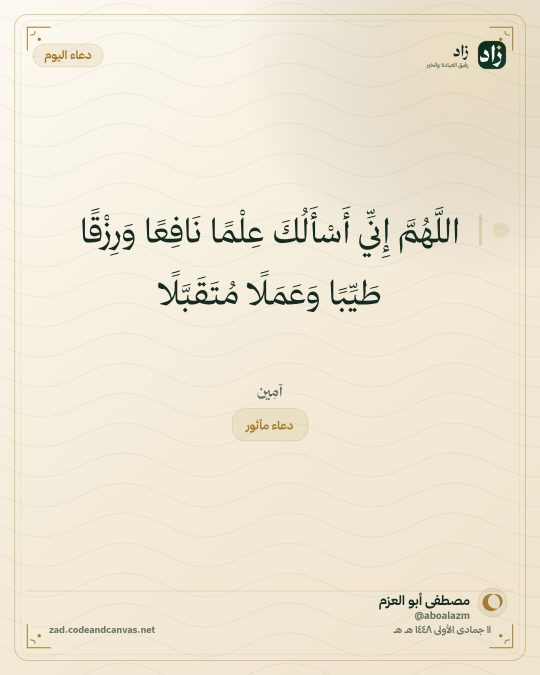
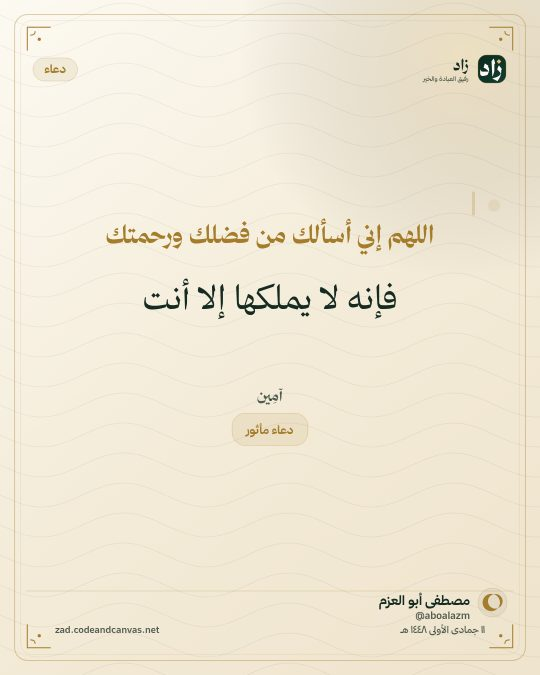
fix(share-studio): إزالة تراكب الشعار/الزخارف في البطاقات + أمثلة مُحدَّثة
- الترويسة نزلت تحت زخرفة الزاوية (كان اللوجو والـchip بيتقطعوا بالقوس الذهبي).
- التاريخ الهجري: منع تكرار «هـ» (Intl بيرجّعها أصلاً).
- الرابط/التاريخ بعيدين عن زخارف الزاوية السفلية.
- علامة الاقتباس فوق العنوان بدل ما تتراكب مع النص المتمركز.
- صندوق الإحصائية الواحدة محدود العرض، وحماية من undefined.
- اللوحة الورقية أوضح (soft .62 → .74).
- إعادة توليد أمثلة tools/share-cards الخمسة.

diff --git a/js/ui/share-studio.js b/js/ui/share-studio.js
@@ -61,7 +61,7 @@
       soft: 'rgba(244,247,255,.68)', accent: '#e3c37c', accent2: '#8fb7e8',
       line: 'rgba(227,195,124,.38)', chip: 'rgba(143,183,232,.13)', glow: 'rgba(80,130,220,.24)', dark: true },
     ivory: { label: 'ورقي', bg: ['#fdfaf2', '#f4ecd9', '#efe4cd'], ink: '#152a21',
-      soft: 'rgba(21,42,33,.62)', accent: '#a47c2a', accent2: '#2f6b52',
+      soft: 'rgba(21,42,33,.74)', accent: '#a47c2a', accent2: '#2f6b52',
       line: 'rgba(164,124,42,.35)', chip: 'rgba(164,124,42,.10)', glow: 'rgba(201,161,74,.20)', dark: false },
     rose: { label: 'وردي', bg: ['#2c0d1e', '#5b1f3c', '#240a18'], ink: '#fff3f7',
       soft: 'rgba(255,243,247,.70)', accent: '#f2c6a0', accent2: '#e79ac2',
@@ -551,7 +551,7 @@
     ctx.font = F('display', size * 0.56, 700);
     ctx.fillText(BRAND, right, y + size * 0.55);
     ctx.fillStyle = P.soft;
-    ctx.font = F('sans', size * 0.20, 500);
+    ctx.font = F('sans', size * 0.22, 500);
     ctx.fillText(TAGLINE, right, y + size * 0.92);
     ctx.restore();
   }
@@ -607,9 +607,11 @@
 
   function hijriToday() {
     try {
-      return new Intl.DateTimeFormat('ar-SA-u-ca-islamic-umalqura', {
+      var s = new Intl.DateTimeFormat('ar-SA-u-ca-islamic-umalqura', {
         day: 'numeric', month: 'long', year: 'numeric'
-      }).format(new Date()) + ' هـ';
+      }).format(new Date());
+      /* بعض إصدارات ICU بتضيف «هـ» بنفسها — منع التكرار */
+      return /ه(\u0640)?\s*$/.test(s) ? s : s + ' هـ';
     } catch (e) { return ''; }
   }
 
@@ -663,8 +665,8 @@
       frame(ctx, W, H, pad, P, u);
     }
 
-    /* ── الترويسة ── */
-    var headY = pad + Math.round(30 * u);
+    /* ── الترويسة ── (تبدأ تحت زخرفة الزاوية 46u حتى لا تتراكب معها) */
+    var headY = pad + Math.round(58 * u);
     var headSize = Math.round(56 * u);
     if (p.showLogo) {
       drawLockup(ctx, W - pad - Math.round(16 * u) - headSize, headY, headSize, P);
@@ -716,7 +718,7 @@
     ctx.font = F('sans', Math.round(19 * u), 500);
     ctx.fillStyle = P.soft;
     ctx.direction = 'ltr'; ctx.textAlign = 'left';
-    ctx.fillText(APP_DOMAIN, pad + Math.round(46 * u), urlY);
+    ctx.fillText(APP_DOMAIN, pad + Math.round(58 * u), urlY);
     ctx.restore();
 
     if (p.showDate) {
@@ -726,7 +728,7 @@
         ctx.font = F('sans', Math.round(19 * u), 500);
         ctx.fillStyle = P.soft;
         ctx.direction = 'rtl'; ctx.textAlign = 'right';
-        ctx.fillText(hj, W - pad - Math.round(46 * u), urlY);
+        ctx.fillText(hj, W - pad - Math.round(58 * u), urlY);
         ctx.restore();
       }
     }
@@ -864,14 +866,14 @@
     var total = titleH + blockH + tailH + srcH;
     var top = blockTop(B, total);
 
-    /* علامة اقتباس شفافة أعلى اليمين */
+    /* علامة اقتباس شفافة فوق العنوان — كانت على يمين النص المتمركز فبتتراكب معه */
     ctx.save();
     ctx.globalAlpha = 0.22;
     ctx.fillStyle = P.accent;
-    roundRect(ctx, W - B.pad - Math.round(70 * u), top + Math.round(6 * u), Math.round(6 * u), Math.round(64 * u), 3 * u);
+    roundRect(ctx, W - B.pad - Math.round(84 * u), top - Math.round(58 * u), Math.round(6 * u), Math.round(48 * u), 3 * u);
     ctx.fill();
     ctx.globalAlpha = 0.10;
-    ctx.beginPath(); ctx.arc(W - B.pad - Math.round(26 * u), top + Math.round(38 * u), Math.round(16 * u), 0, Math.PI * 2);
+    ctx.beginPath(); ctx.arc(W - B.pad - Math.round(40 * u), top - Math.round(30 * u), Math.round(12 * u), 0, Math.PI * 2);
     ctx.fill();
     ctx.restore();
 
@@ -963,6 +965,8 @@
     var cols = stats.length > 2 ? 2 : Math.max(1, stats.length);
     var gap = Math.round(22 * u);
     var cw = (W - B.pad * 2 - gap * (cols - 1)) / cols;
+    /* إحصائية واحدة أو اتنين كانت بتاخد عرض البطاقة كله كصندوق فاضي */
+    cw = Math.min(cw, Math.round(420 * u));
     var ch = Math.round(150 * u);
     var gridH = stats.length ? Math.ceil(stats.length / cols) * (ch + gap) - gap + Math.round(40 * u) : 0;
 
@@ -1009,10 +1013,10 @@
         ctx.textAlign = 'center';
         ctx.font = F('display', Math.round(52 * u), 700);
         ctx.fillStyle = P.accent;
-        ctx.fillText(String(s.value), cx + cw / 2, cy + ch * 0.50);
+        ctx.fillText(s && s.value != null ? String(s.value) : '—', cx + cw / 2, cy + ch * 0.50);
         ctx.font = F('sans', Math.round(21 * u), 500);
         ctx.fillStyle = P.soft;
-        ctx.fillText(String(s.label), cx + cw / 2, cy + ch * 0.80);
+        if (s && s.label) ctx.fillText(String(s.label), cx + cw / 2, cy + ch * 0.80);
       });
       y += gridH;
     }

diff --git a/CHANGELOG.md b/CHANGELOG.md
@@ -1,3 +1,24 @@
+## [Unreleased] - 2026-10-22 — استوديو المشاركة: إصلاح تراكب العناصر في البطاقات
+
+### Fixed
+- **تراكب شعار التطبيق مع زخرفة الزاوية** أعلى اليمين (وشارة «آية اليوم» أعلى اليسار):
+  الترويسة كانت تبدأ على بُعد `30u` من الحافة وزخرفة الزاوية بتاخد `46u` — فكانت
+  الأقواس الذهبية تقطع الكارت والشعار. الترويسة نزلت لـ`58u` فبقى فيه فاصل نضيف.
+- **التاريخ الهجري كان بيطبع «هـ» مرتين** (`… ١٤٤٨ هـ هـ`) لأن `Intl.DateTimeFormat`
+  بيرجّع الصيغة كاملة بـ«هـ»، والكود كان بيضيفها تاني. بقى يضيفها بس لو مش موجودة.
+- **الرابط والتاريخ في التذييل** كانوا على حافة زخارف الزاوية السفلية → زادت المسافة
+  من `46u` لـ`58u`.
+- **علامة الاقتباس في قالب الدعاء** كانت على يمين النص المتمركز فبتتراكب مع العنوان
+  على المقاسات الضيقة → اتنقلت فوق العنوان يمين.
+- **صندوق الإحصائية الواحدة** كان بياخد عرض البطاقة كله (صندوق ضخم فاضي) → محدود بـ
+  `420u` ومتمركز.
+- **`stats` بقى محصّن**: قيمة/عنوان ناقص ما يطبعش «undefined» في البطاقة (بقى `—`).
+- **اللوحة الورقية**: النص الثانوي (`soft`) كان ≈4:1 → رُفع من `.62` لـ`.74`.
+
+### Changed
+- أمثلة `tools/share-cards/` الخمسة أُعيد توليدها بنفس المحرّك بعد الإصلاحات
+  (٥٤٠ بكسل · JPEG ٨٢) — الرابط والتاريخ والشعار بقوا بعيدين عن الزخارف.
+
 ## [Unreleased] - 2026-10-22 — تدقيق تباين شامل (٦ أوضاع × ٧٨ صفحة) + صفحة 404 جديدة
 
 ### Added
